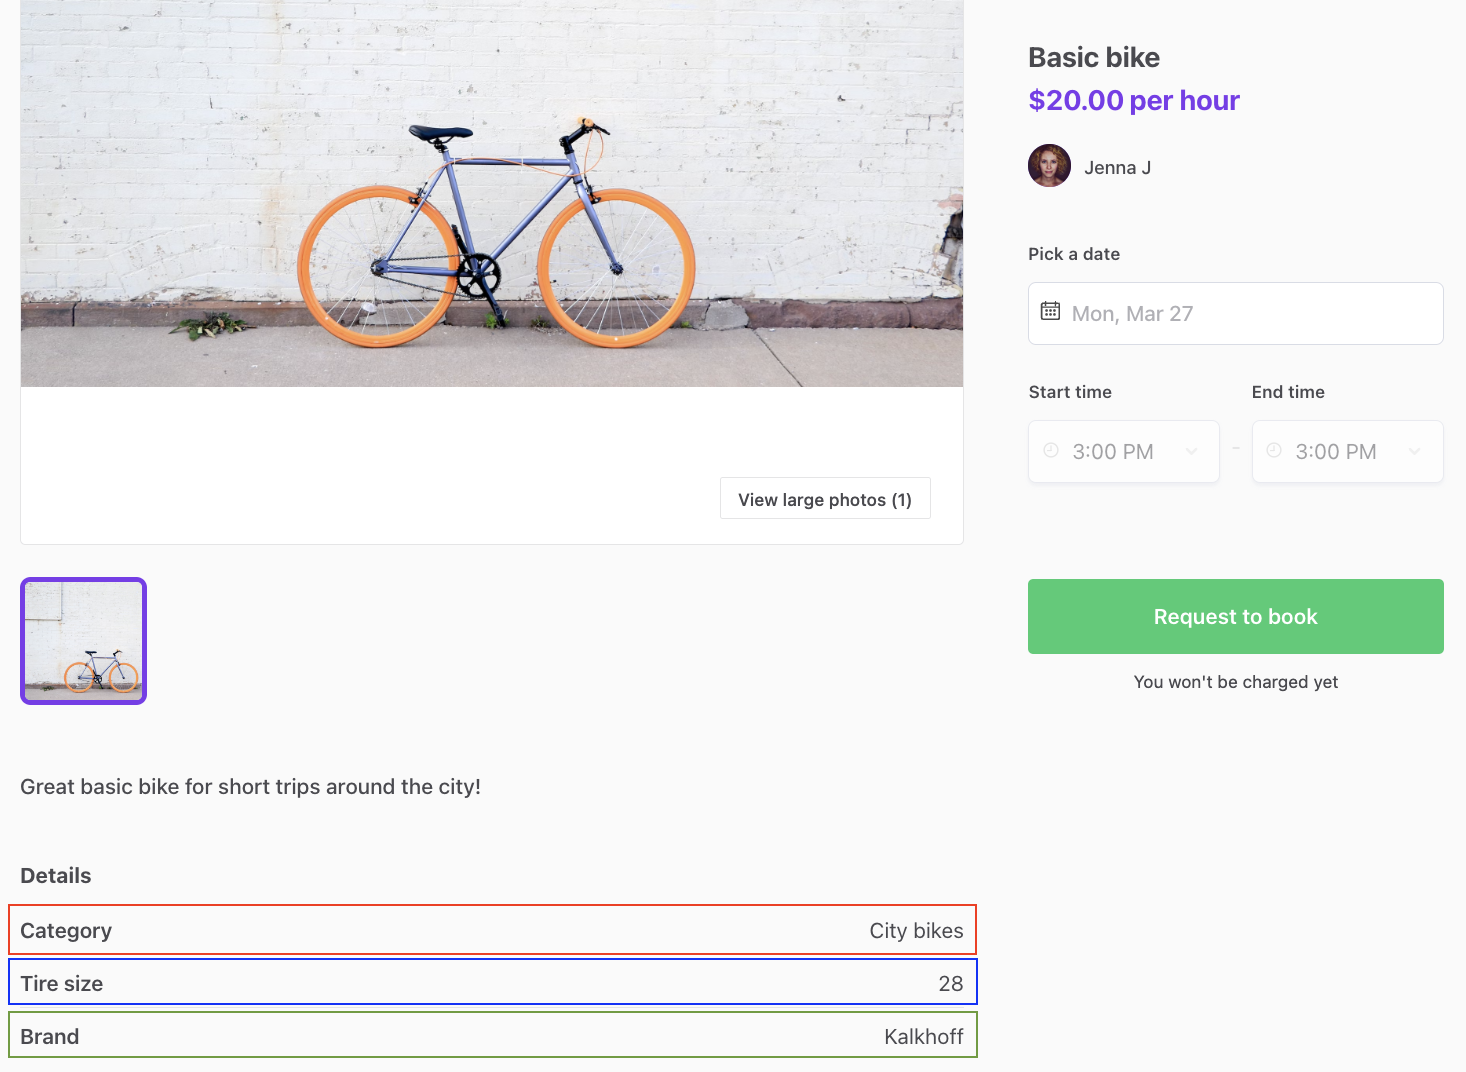
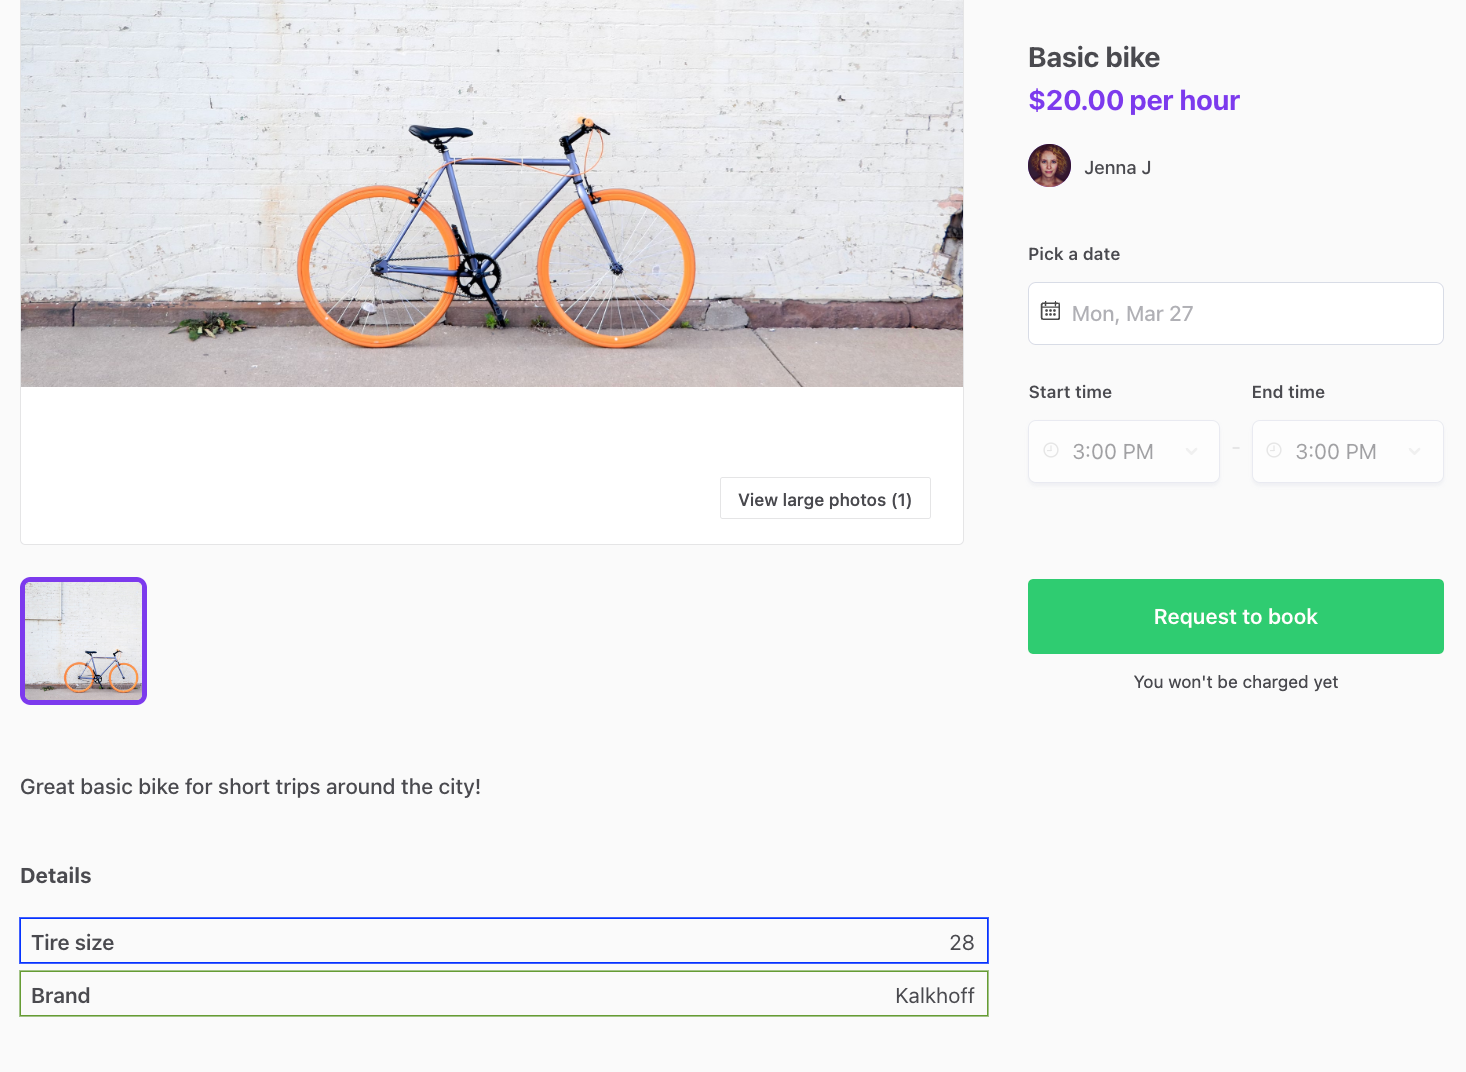
update carousel with category data

Changed region(s): [[0.0, 0.8312, 0.6753, 1.0], [0.6753, 0.5233, 1.0, 0.6157]]

diff --git a/src/components/CarouselPublicExtendedData/CarouselPublicExtendedData.js b/src/components/CarouselPublicExtendedData/CarouselPublicExtendedData.js
@@ -15,8 +15,8 @@ const CarouselPublicExtendedData = props => {
         <h3>Listing public data in the frontend</h3>
         <p>
           We’ll look at a few different extended data fields. We have
-          highlighted the fields in different colors: red is for bike category,
-          blue is for tire size, and green is for bike brand.
+          highlighted the fields in different colors: blue is for tire size, and
+          green is for bike brand.
         </p>
       </Slide>
 
@@ -38,9 +38,9 @@ const CarouselPublicExtendedData = props => {
       >
         <h3>Listing public data in Console</h3>
         <p>
-          This is the same listing in Console, your Flex marketplace management
-          tool. You can see the corresponding public data fields highlighted
-          with the same color as on the listing creation page.
+          This is the same listing in Console, your marketplace management tool.
+          You can see the corresponding public data fields highlighted with the
+          same color as on the listing creation page.
         </p>
       </Slide>
     </Carousel>
